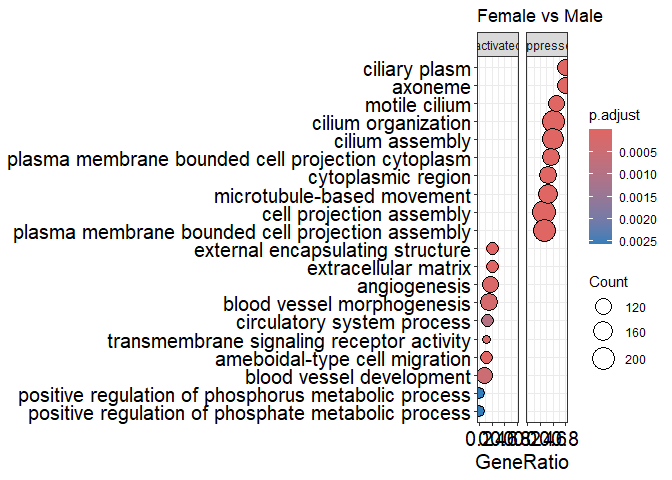
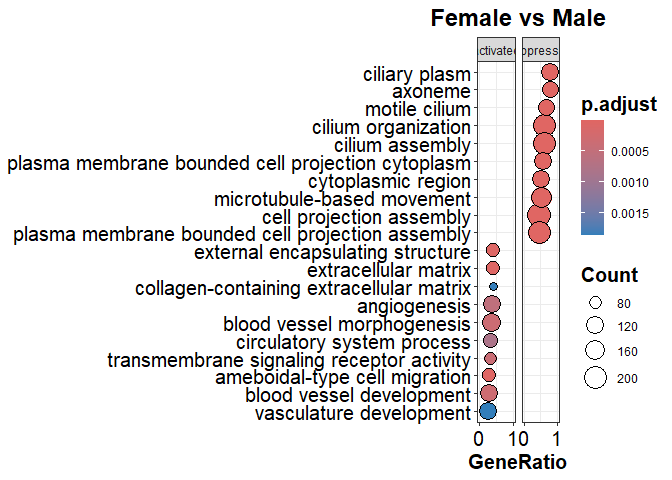
09.05.2024

Changed region(s): [[0.0, 0.0, 1.0, 1.0], [0.8438, 0.5625, 0.9688, 0.8125]]

diff --git a/2-demographic_cohorts_background_differences.md b/2-demographic_cohorts_background_differences.md
@@ -315,13 +315,7 @@ gseGO_FvM_ALL <- gseGO(geneList=genelist_GdataFvM,
                        OrgDb = organism, 
                        pAdjustMethod = "BH")
 
-enrichplot::dotplot(gseGO_FvM_ALL, split=".sign", title = "Female vs Male",
-                    showCategory = 10, font.size = 15, label_format = 70) + facet_grid(.~.sign)
-```
 
-![](README_figs/README2--GSEA%20analysis-1.png)<!-- -->
-
-``` r
 enrichplot::dotplot(gseGO_FvM_ALL, split=".sign", title = "Female vs Male",
                     showCategory = 10, font.size = 15, label_format = 70)+ facet_grid(.~.sign)+ 
   scale_x_continuous(breaks = seq(0, 1, by = 1), limits=c(0,1))+
@@ -330,7 +324,7 @@ enrichplot::dotplot(gseGO_FvM_ALL, split=".sign", title = "Female vs Male",
         plot.title = element_text(hjust=0.5))
 ```
 
-![](README_figs/README2--GSEA%20analysis-2.png)<!-- -->
+![](README_figs/README2--GSEA%20analysis-1.png)<!-- -->
 
 FIGURE S6
 
